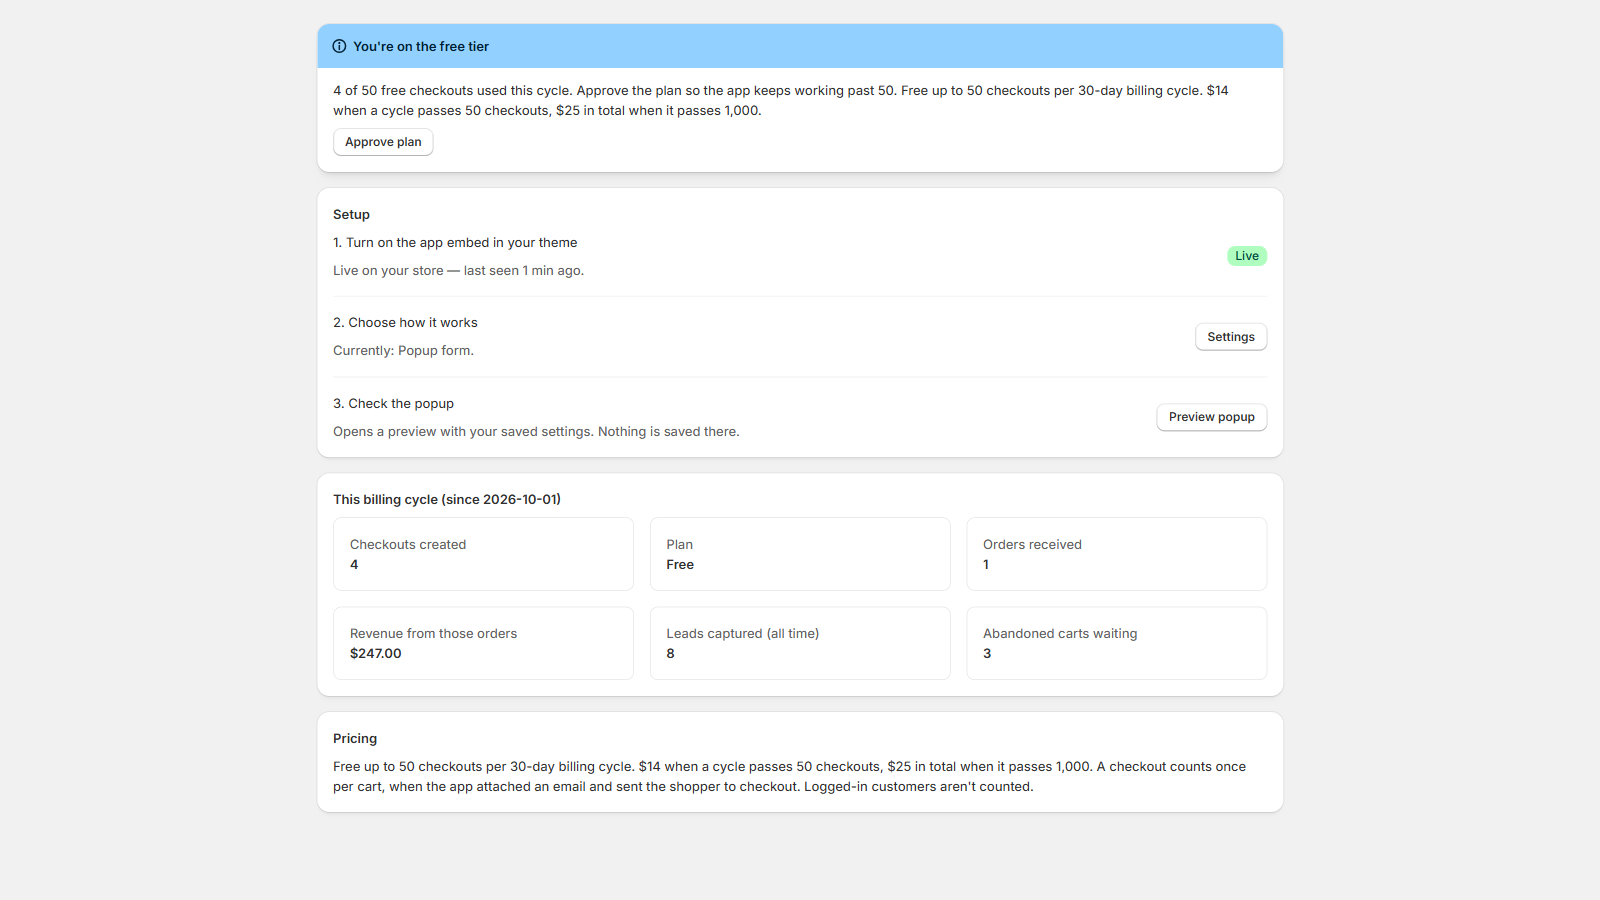
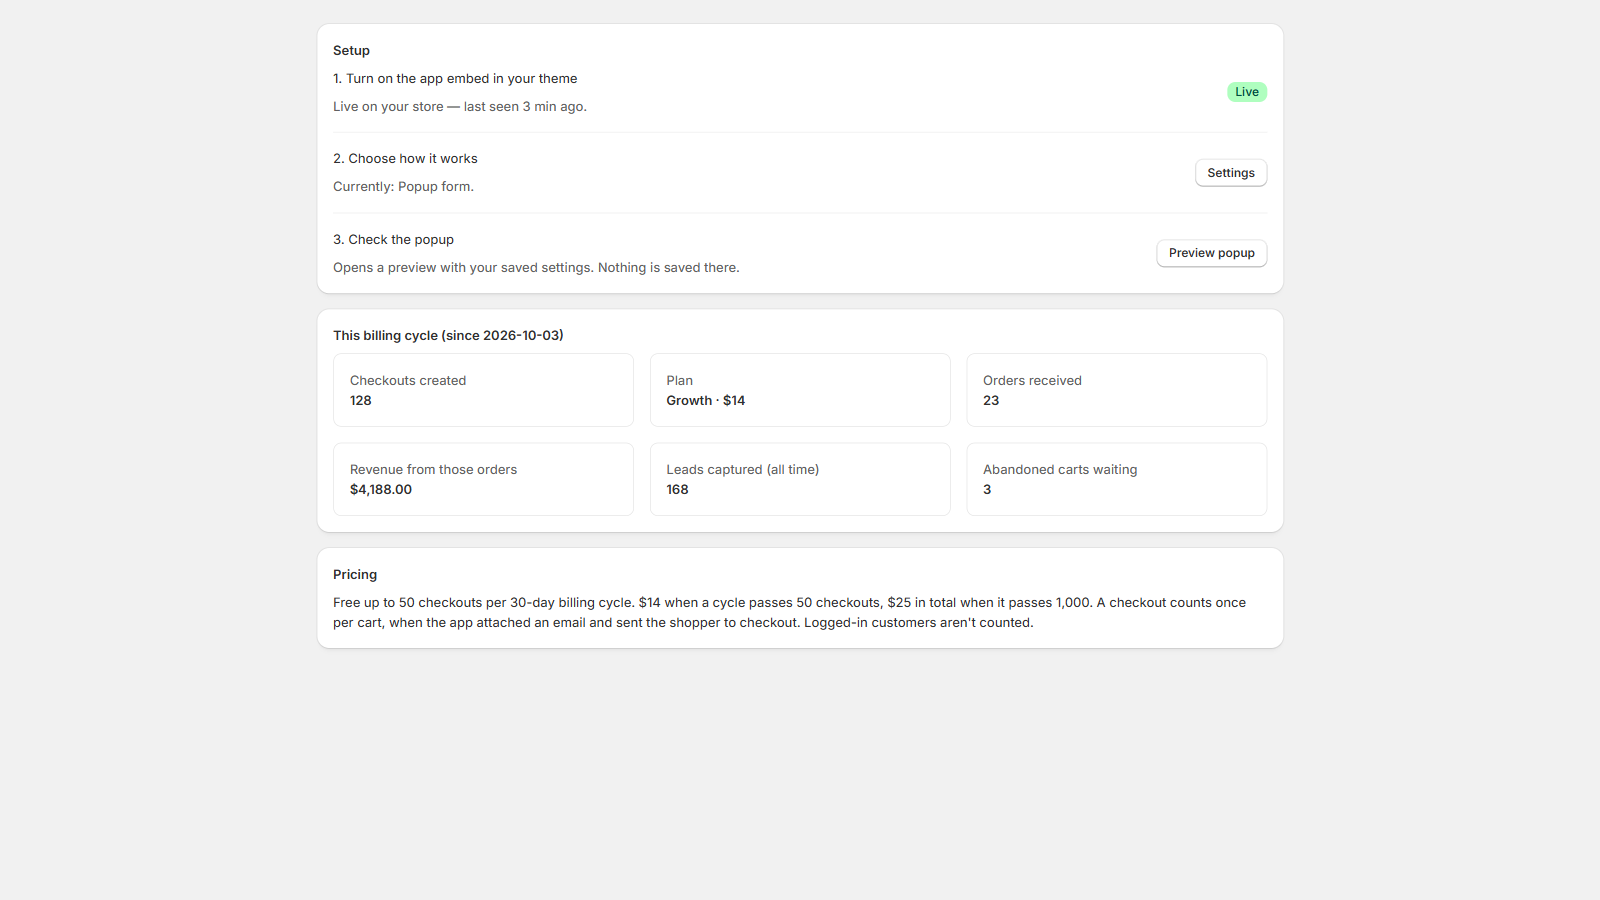
Replace the Results image on the website with a full-frame composition

diff --git a/marketing/site/landing.html b/marketing/site/landing.html
@@ -141,7 +141,7 @@
       </ul>
       <div style="margin-top: 2.2rem;"><a href="{{INSTALL_URL}}" class="btn">Install on Shopify</a></div>
     </div>
-    <div class="split-image-container" style="background-image: url('{{ASSET}}/app-home.jpg'); background-size: 135% auto; background-position: 30% 0; background-color: #f1f1f1; border: 1px solid #eee;"></div>
+    <div class="split-image-container" style="background-image: url('{{ASSET}}/app-results.jpg'); background-color: #fafafa;"></div>
   </div>
 </section>
 
